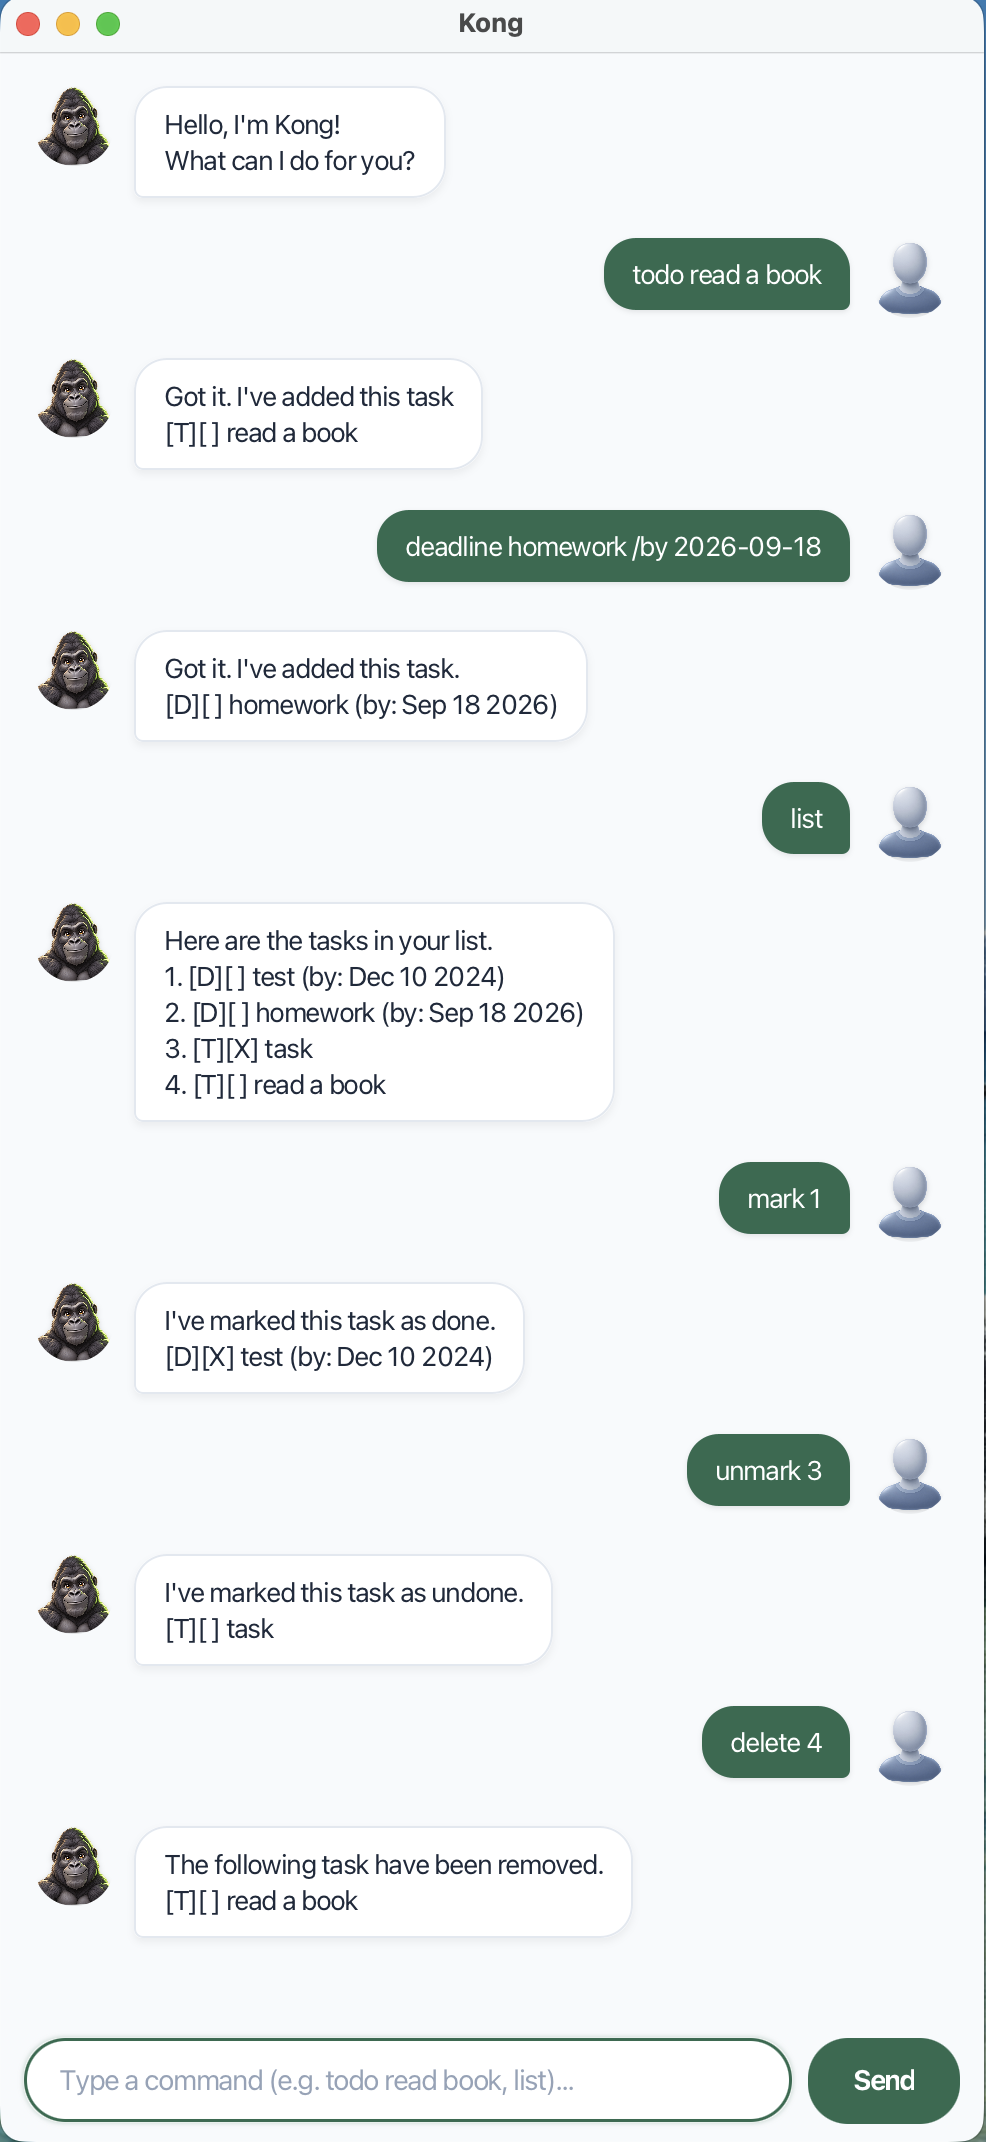
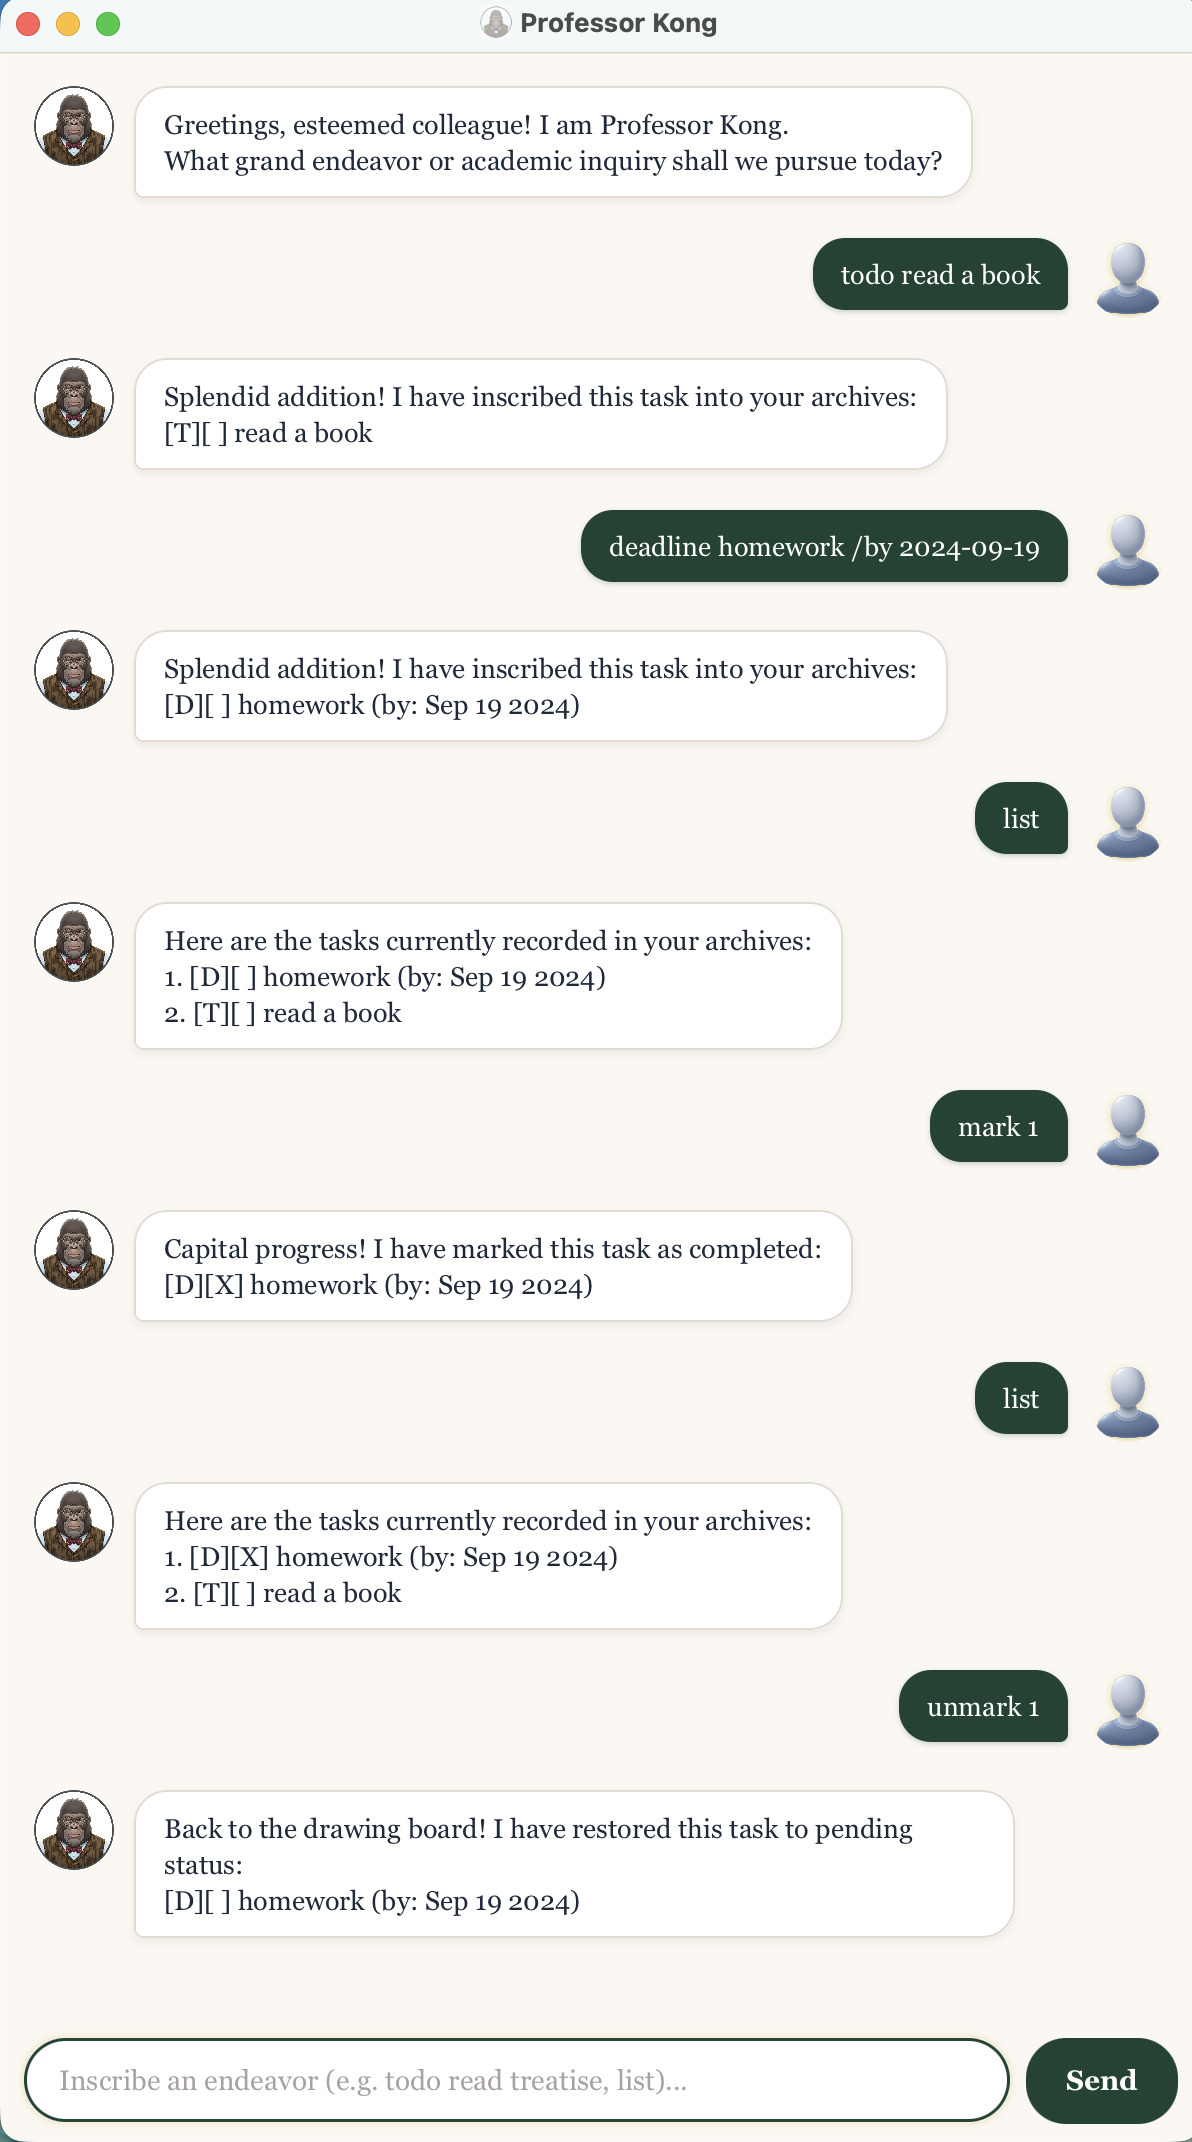
Docs: Clarify command notes and update screenshot
Command descriptions omit case-insensitivity and task number
constraints, and the screenshot displays an outdated interface.

Clarify that command words are case-insensitive and task numbers
must be positive integers. Update the user guide screenshot to match
the Oxford Library interface.

diff --git a/docs/README.md b/docs/README.md
@@ -26,6 +26,8 @@ Professor Kong is a distinguished desktop task-tracking chatbot designed to help
 >
 > * Words in `<angle brackets>` are parameters to be supplied by the user.  
 >   For example, in `todo <description>`, `<description>` can be `read book`.
+> * `<task_number>` must be a valid positive integer corresponding to the index in your current task list.
+> * Command words are case-insensitive (e.g., `TODO`, `list`, and `bye` will all be recognized).
 > * Dates must follow the strict `yyyy-MM-dd` format (e.g., `2026-10-15`). Calendar dates that do not exist (e.g., `2026-02-30`) are rejected.
 > * Task descriptions cannot contain the vertical bar `|` character or newline characters.
 > * Tasks are automatically ordered **chronologically**: deadlines and events are sorted by date, while undated to-dos appear at the end.
@@ -120,6 +122,7 @@ Capital progress! I have marked this task as completed:
 Marks a completed task back to incomplete.
 
 * **Format:** `unmark <task_number>`
+* **Note:** `<task_number>` must be a valid 1-based index from the latest task list.
 * **Example:** `unmark 2`
 
 **Expected Outcome:**
@@ -172,6 +175,7 @@ Consulting the ledger. Here are the deadlines and events on this date:
 Permanently removes a task from the list at the specified index.
 
 * **Format:** `delete <task_number>`
+* **Note:** `<task_number>` must be a valid 1-based index from the latest task list.
 * **Example:** `delete 1`
 
 **Expected Outcome:**
